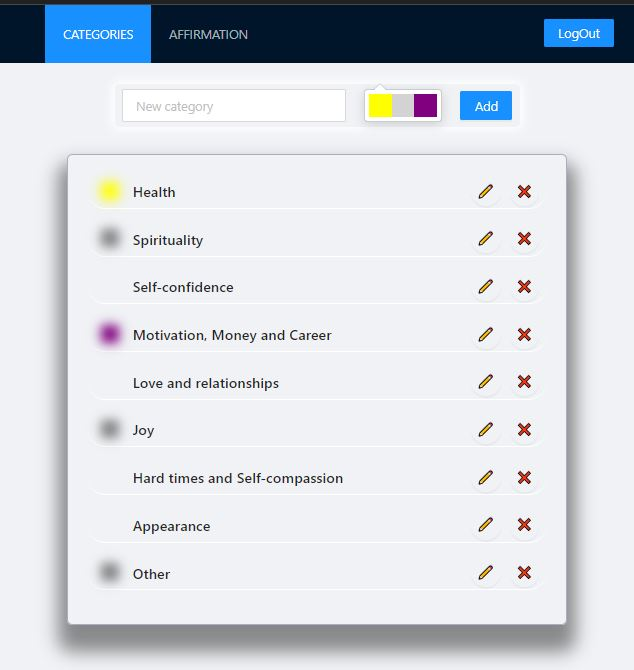
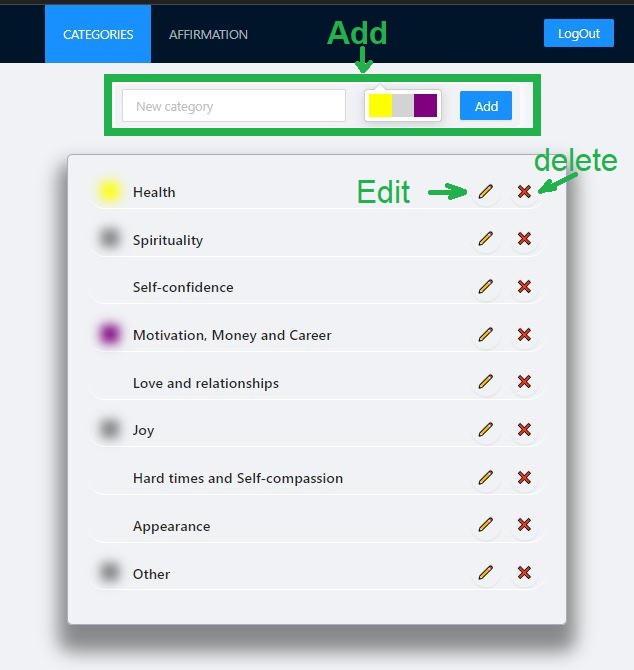
fix

Changed region(s): [[0.1498, 0.0299, 0.989, 0.2985], [0.5394, 0.2687, 0.7492, 0.3284]]

diff --git a/README.md b/README.md
@@ -4,7 +4,9 @@
 
 ![](public/img/login.JPG)
 
-Then you will be taken to the category page, where you will have the opportunity to `add` `delete` or `edit` categories
+**Then you will be taken to the category page, where you will have the opportunity to `add` `delete` or `edit` categories**
+
+![](public/img/categories.JPG)
 
 ## Available Scripts
 
